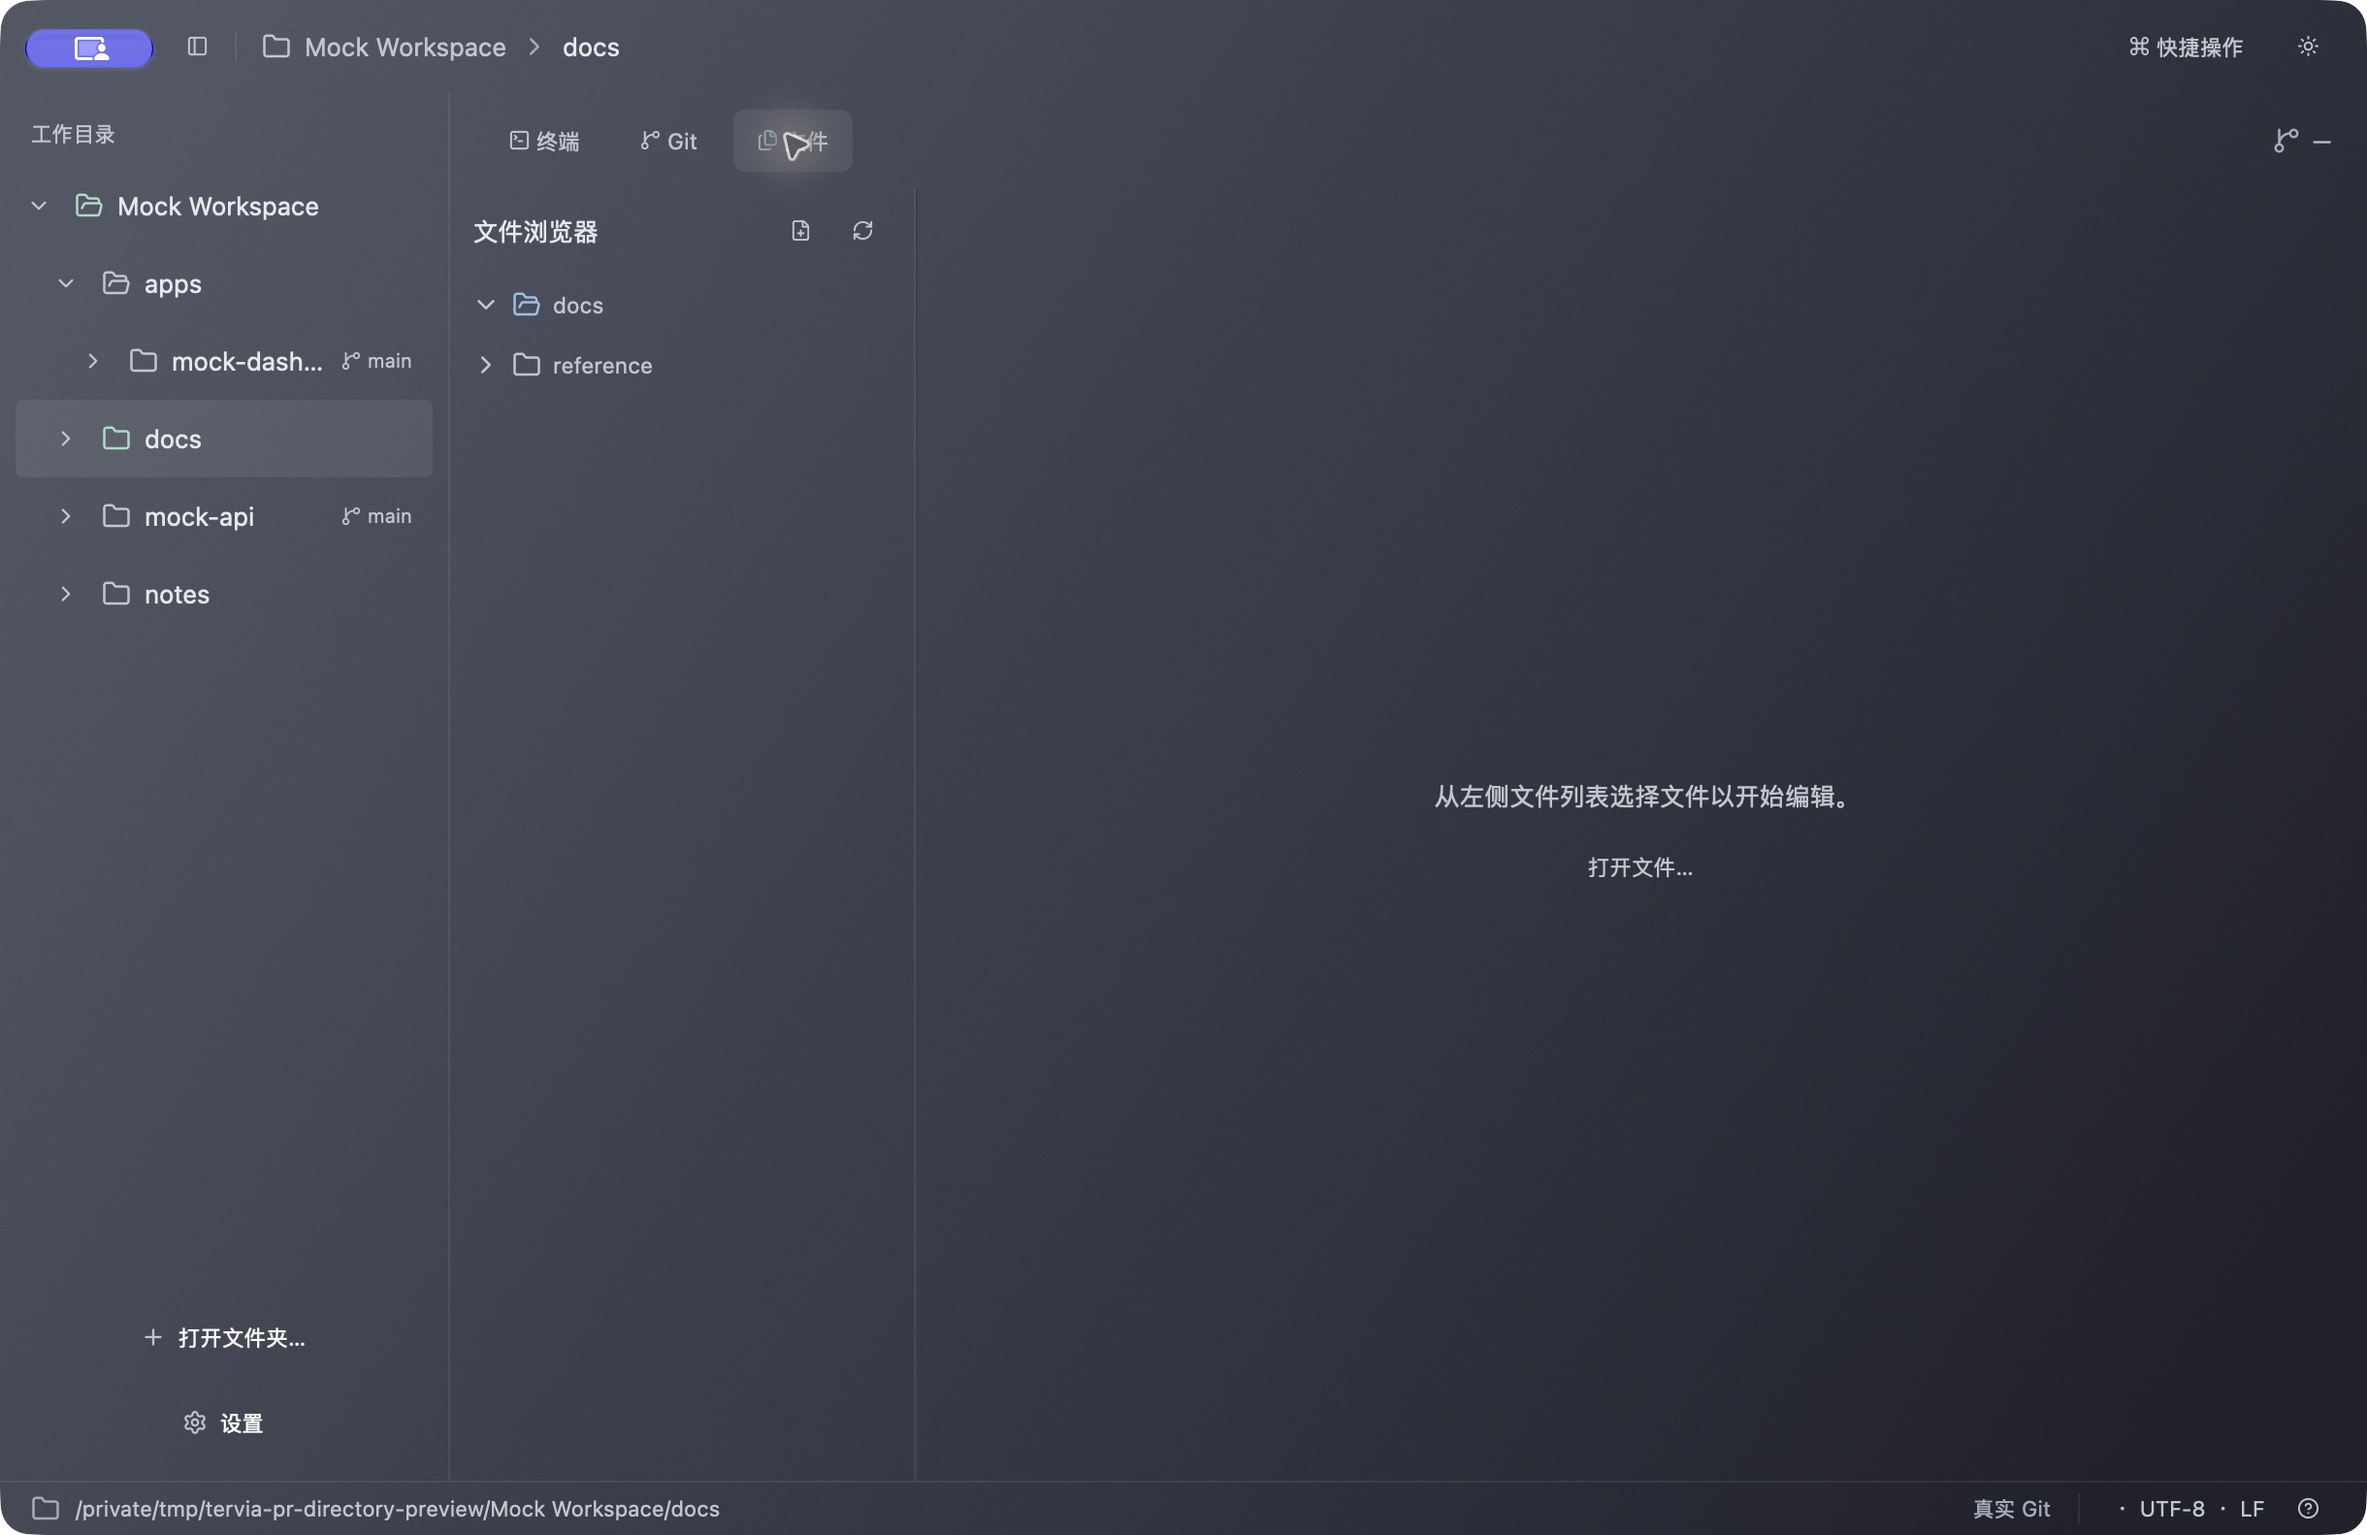
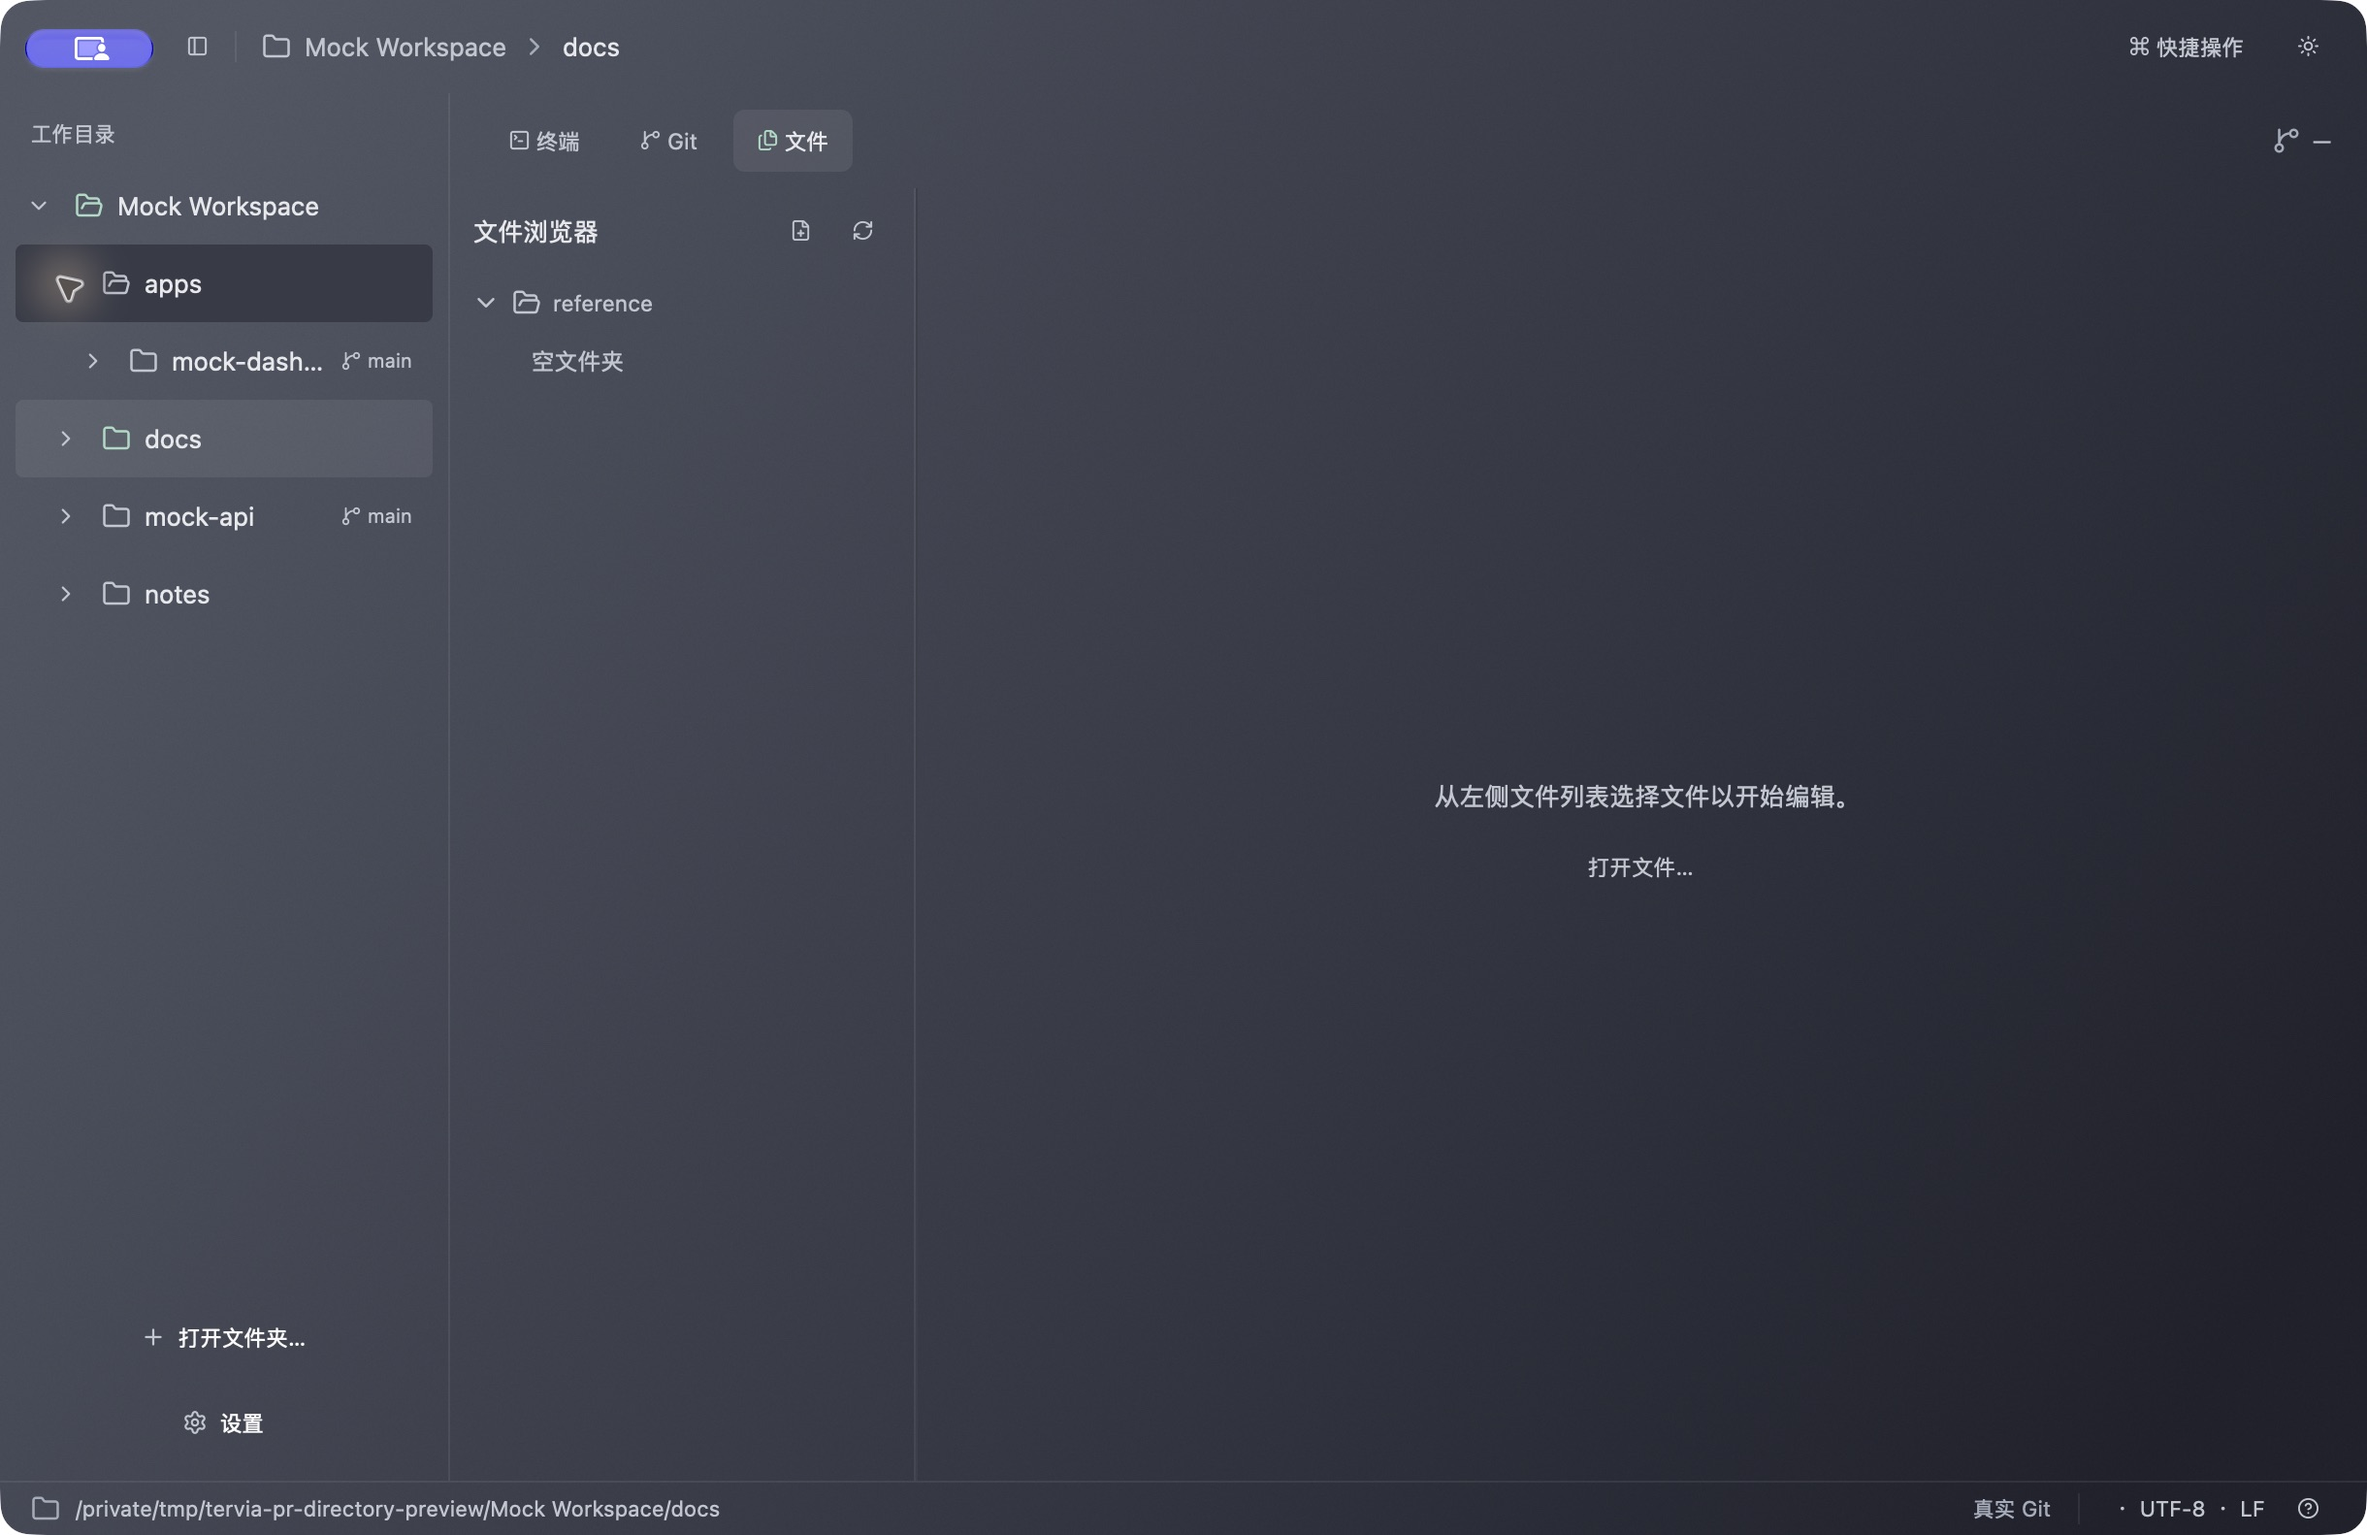
fix(files): start explorer at directory contents

Changed region(s): [[0.0, 0.1549, 0.1557, 0.2168], [0.218, 0.1858, 0.2803, 0.2478]]

diff --git a/src/ui/explorer.rs b/src/ui/explorer.rs
@@ -23,8 +23,6 @@ impl Tervia {
         let project = self.state.active_project;
         let ui = &self.explorers[project];
         let p = Palette::workbench(self.appearance.light_theme);
-        let root = PathBuf::new();
-        let expanded = ui.tree.is_expanded(&root);
         let rows = ui.tree.rows();
         div()
             .size_full()
@@ -73,57 +71,6 @@ impl Tervia {
                         .on_click(cx.listener(
                             move |this, _, window, cx| this.refresh_explorer(project, window, cx),
                         )),
-                    ),
-            )
-            .child(
-                div()
-                    .id("explorer-root-row")
-                    .h(px(32.0))
-                    .flex_shrink_0()
-                    .w_full()
-                    .hover(|style| style.bg(p.raised))
-                    .child(
-                        label_button("explorer-root", "", p)
-                            .text()
-                            .h_full()
-                            .w_full()
-                            .rounded(px(0.0))
-                            .accessibility_label(format!(
-                                "{} {}",
-                                self.t(if expanded {
-                                    "git_collapse"
-                                } else {
-                                    "git_expand"
-                                }),
-                                self.state.projects[project].name
-                            ))
-                            .child(
-                                div()
-                                    .w_full()
-                                    .flex()
-                                    .items_center()
-                                    .gap(px(6.0))
-                                    .px(px(8.0))
-                                    .child(icon(
-                                        if expanded {
-                                            IconName::ChevronDown
-                                        } else {
-                                            IconName::ChevronRight
-                                        },
-                                        p.secondary,
-                                    ))
-                                    .child(icon(IconName::FolderOpen, p.accent))
-                                    .child(
-                                        div()
-                                            .min_w_0()
-                                            .flex_1()
-                                            .text_ellipsis()
-                                            .child(self.state.projects[project].name.clone()),
-                                    ),
-                            )
-                            .on_click(cx.listener(move |this, _, window, cx| {
-                                this.toggle_directory(project, PathBuf::new(), window, cx)
-                            })),
                     ),
             )
             .child(

diff --git a/DESIGN.md b/DESIGN.md
@@ -13,7 +13,7 @@ A native, flat desktop workspace with a compact project rail, stable module navi
 - Git file rows use compact layouts with name, status and staging action; full paths remain available in tooltips. File folders, index/worktree groups, repository/branch/tag sections and stash lists can collapse, with state retained per project. Collapse-header hover fills the entire row, and section counts have an 8-point internal right inset.
 - Git's collapsible Worktrees section sits below its navigation and above branches. Compact 32-point rows identify branches or detached directories, mark the current directory with a check, and show locks or missing-directory states; full paths remain in tooltips. The section's Plus control opens management.
 - Worktree management keeps three checkout choices (New Branch, Existing Branch, Detached HEAD), the destination with a native path chooser, applicable branch/start-reference fields, and Create above a virtualized directory list. Flat 52-point directory rows show the branch or detached label above a quieter path; selection uses the existing translucent blue tint. A single toolbar acts on the selected directory, and its optional lock reason sits below the list. The form, toolbar and rows reveal the continuous shell gradient in both themes.
-- Files: selected-project directory tree beside a native code editor with syntax highlighting. The tree loads one directory at a time on background workers and virtualizes visible rows; it hides `.git` and does not expand directory symlinks. Directory expansion and scroll position remain independent per project.
+- Files: the selected directory’s contents begin directly below the explorer toolbar, beside a native code editor with syntax highlighting. The window titlebar identifies the current directory; the explorer does not repeat it as a root row. The tree loads one directory at a time on background workers and virtualizes visible rows; it hides `.git` and does not expand directory symlinks. Directory expansion and scroll position remain independent per project.
 - Opened files occupy a horizontal tab strip above breadcrumbs and the editor. The upper-right breadcrumb actions place a compact Refresh icon beside Find and Save; disk-change notices appear only in context, with no permanent Reload strip. A native file chooser remains available.
 - Bottom status strip communicates project, branch, focus context, and live Git context.
 
